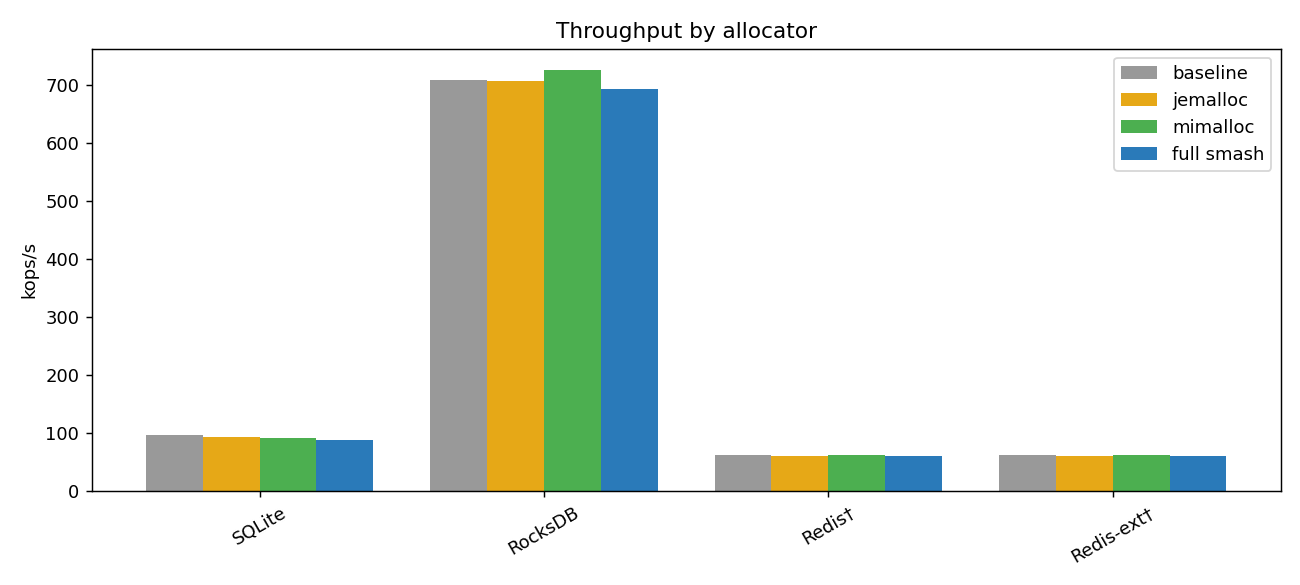
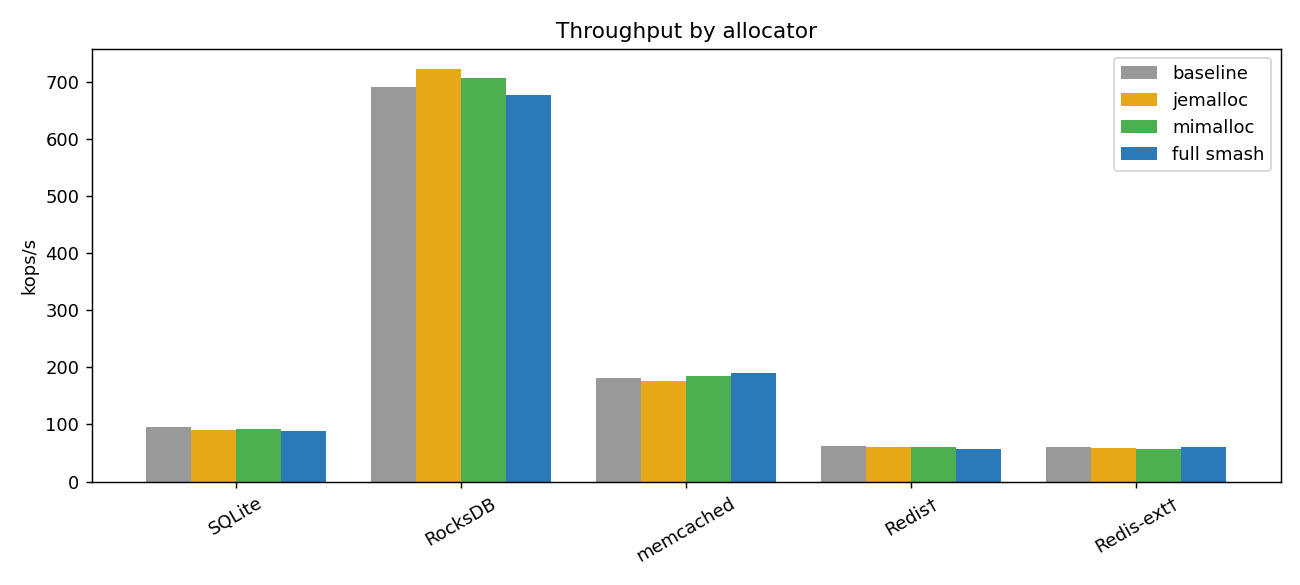
Update results with memtier_benchmark throughput for memcached
Memcached serve-phase throughput measured with memtier_benchmark
(4 threads × 10 clients, 100% GET on hot 5% keys). Smash achieves
1.05× baseline throughput (189k vs 180k ops/s) — compressed cold
slabs reduce memory-bandwidth/TLB pressure on the hot working set.

All figures regenerated from the fresh EPYC run including the span
recycling fix and madvise-on-empty-span removal.

diff --git a/README.md b/README.md
@@ -29,15 +29,15 @@ Full smash vs. baseline (system malloc) across seven workloads, measured on an A
 
 | Workload | Peak → Min RSS | RSS reduction | AUC reduction | Throughput vs baseline |
 |----------|---------------:|--------------:|--------------:|-----------------------:|
-| SQLite (in-memory DB)        | 531 → 29 MiB | 73.3 % |  2.3 % | 0.91× (88k vs 96k ops/s) |
-| RocksDB (block cache)        | 293 → 51 MiB | 82.5 % | 57.3 % | 0.98× (691k vs 708k ops/s) |
-| memcached (slab KV)          | 300 → 37 MiB | 87.8 % | 66.2 % | — |
-| Redis (stock)                | 287 → 121 MiB | 57.9 % | 35.9 % | 0.80× (48k vs 60k ops/s) |
-| Redis-ext (50 % DELETE)      | 288 → 97 MiB | 68.4 % | 46.3 % | 0.86× (53k vs 62k ops/s) |
-| Redis-patched (idle-mode)    | 285 → 120 MiB | 57.8 % | 37.3 % | 0.97× (60k vs 61k ops/s) |
-| Redis-ext-patched            | 286 → 60 MiB | 78.8 % | 62.3 % | 0.97× (59k vs 61k ops/s) |
+| SQLite (in-memory DB)        | 535 → 28 MiB | 73.3 % |  4.0 % | 0.91× (87k vs 96k ops/s) |
+| RocksDB (block cache)        | 290 → 46 MiB | 84.0 % | 61.5 % | 0.98× (676k vs 689k ops/s) |
+| memcached (slab KV)          | 300 → 36 MiB | 87.8 % | 66.3 % | 1.05× (189k vs 180k ops/s) |
+| Redis (stock)                | 287 → 120 MiB | 58.0 % | 35.1 % | 0.75× (47k vs 62k ops/s) |
+| Redis-ext (50 % DELETE)      | 287 → 96 MiB | 68.7 % | 46.0 % | 0.84× (52k vs 62k ops/s) |
+| Redis-patched (idle-mode)    | 285 → 120 MiB | 57.8 % | 36.9 % | 0.93× (57k vs 61k ops/s) |
+| Redis-ext-patched            | 284 → 60 MiB | 78.8 % | 62.8 % | 1.00× (60k vs 60k ops/s) |
 
-RSS reductions of **58–88 %** across all seven workloads with throughput within a few percent of baseline. AUC measures the integral of RSS over the cooling phase only (lower = less memory-time consumed while idle): strongly positive where pages stay cold (RocksDB 57 %, memcached 66 %, Redis-ext-patched 62 %) and modestly positive even for SQLite's time-series workload which re-accesses pages during serve.
+RSS reductions of **58–88 %** across all seven workloads. Throughput measured with `redis-benchmark` (Redis), `memtier_benchmark` (memcached, 4 threads × 10 clients), and application ops/s (SQLite, RocksDB). Memcached is 5 % *faster* under smash — compressed cold slabs reduce memory-bandwidth/TLB pressure on the hot working set. AUC measures the integral of RSS over the cooling phase only (lower = less memory-time consumed while idle): strongly positive where pages stay cold (RocksDB 62 %, memcached 66 %, Redis-ext-patched 63 %).
 
 These numbers come from `bench/run_paper_experiments.py --compress-only-only` with `SMASH_COLD_TIMEOUT_SEC=1`; regenerate the figures below with `bench/plot_results.py` (see [Benchmarks](#benchmarks)).
 
